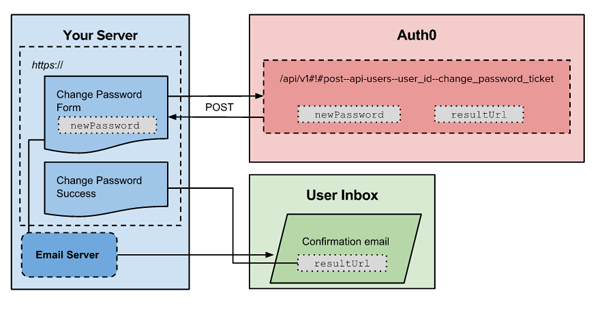
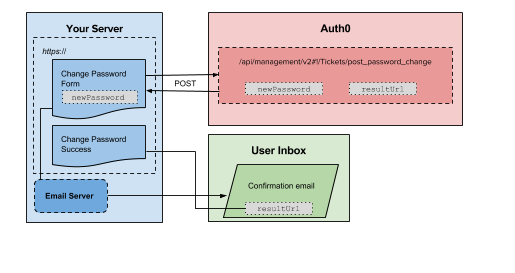
Update change-pass ticket to API v2

diff --git a/articles/email/custom.md b/articles/email/custom.md
@@ -90,9 +90,11 @@ function (user, context, callback) {
 
 ## Change Password Confirmation Email
 
-To handle password change requests, you will need to host a form to capture the user's new password and post it to the [change password ticket](/api/v1#!#post--api-users--user_id--change_password_ticket) endpoint. Calling this endpoint will generate a "Change Password Confirmation" link.
+To handle password change requests, you will need to host a form to capture the user's new password and post it to the [change password ticket](/api/management/v2#!/Tickets/post_password_change) endpoint. Calling this endpoint will generate a "Change Password Confirmation" link. 
 
 You can now send an email to the user containing this link. Only when the user clicks this link will their password be updated.
+
+Alternatively, if you invoke the [change password ticket](/api/management/v2#!/Tickets/post_password_change) endpoint without specifying the `new_password` parameter, the link at the email will redirect the user to a page prompting to set a new password.
 
 ![](/media/articles/email/custom/change-password.png)
 
